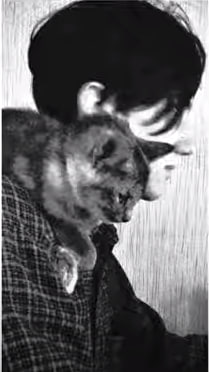
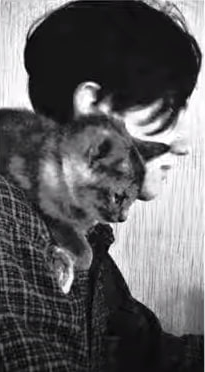
mark

diff --git a/contact.html b/contact.html
@@ -35,7 +35,7 @@
 		<div class="cf flex flex-wrap items-center">
 			<div class="fl flex items-center justify-center w-100 w-50-ns w-50-m">
 				<div class="relative">
-					<img src="/assets/image/mark.jpg" alt="Mark @Sonachine69 3D Art\Design" />
+					<img src="/assets/image/mark.webp" alt="Mark @Sonachine69 3D Art\Design" />
 
 					<a aria-label="That's my cat. Her name is Gabriela Sabatini. She doesn't play tennis. That's why I don't play either." 
 					class="cooltipz--top cooltipz--medium" 
